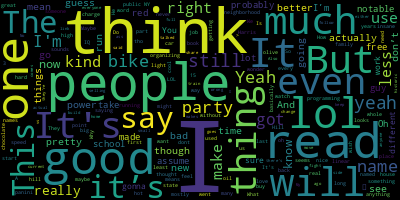
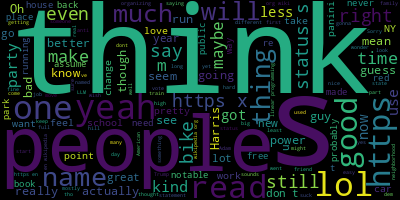
Use text directly.

diff --git a/tea_cloud/main.py b/tea_cloud/main.py
@@ -1,4 +1,3 @@
-from collections import Counter
 from datetime import datetime, timedelta
 from logging import getLogger
 from os import getenv
@@ -7,16 +6,12 @@ from typing import Final
 import discord.client
 import discord.flags
 from dotenv import load_dotenv
-from wordcloud import STOPWORDS, WordCloud
+from wordcloud import WordCloud
 
 logger = getLogger("discord")
 load_dotenv()
 BOT_TOKEN: Final = getenv("BOT_TOKEN", "")
 TWENTY_FOUR_HOURS_AGO: Final = datetime.today() - timedelta(days=1)
-
-
-def get_words(text: str) -> list[str]:
-    return list(filter(lambda x: len(x) > 0, text.replace("\n", " ").split(" ")))
 
 
 def get_text_channels(client: discord.client.Client) -> set[discord.TextChannel]:
@@ -35,20 +30,17 @@ client = discord.client.Client(intents=intents)
 
 @client.event
 async def on_ready() -> None:
-    logger.info("Collecting words...")
-    words = Counter(
+    logger.info("Collecting messages...")
+    text = " ".join(
         [
-            word
+            message.content
             for channel in get_text_channels(client)
             async for message in channel.history(after=TWENTY_FOUR_HOURS_AGO)
-            for word in get_words(message.content)
         ]
     )
-    for stopword in STOPWORDS:
-        del words[stopword]
 
     logger.info("Generating word cloud...")
-    WordCloud().generate_from_frequencies(words).to_file("./output.png")
+    WordCloud().generate(text).to_file("./output.png")
     logger.info("Word cloud generated...")
 
 
